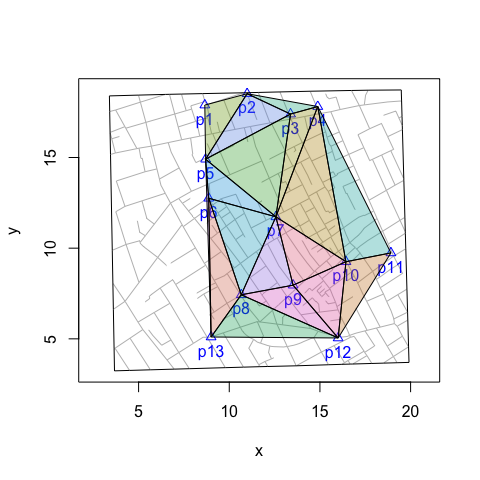
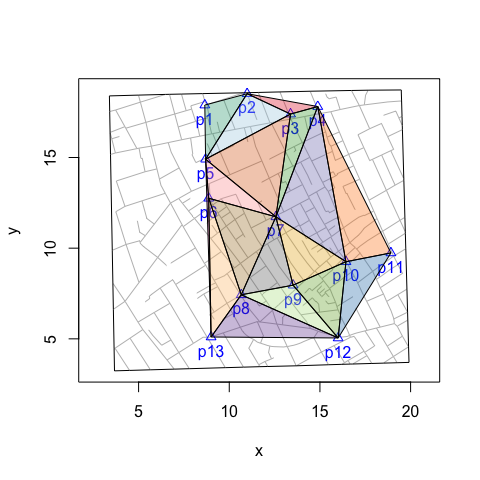
'colorspace' -> 'RColorBrewer'

Changed region(s): [[0.4062, 0.1875, 0.8125, 0.7188]]

diff --git a/docs/vignettes/tiles.polygons.md b/docs/vignettes/tiles.polygons.md
@@ -79,11 +79,11 @@ vapply(census, sum, integer(1L))
 # compute vertices of Voronoi tiles
 vertices <- deldirVertices(sites = cholera::pumps, rw.data = cholera::roads)
 
-# define colors, plot map, and color code tiles
+# define colors
 snow.colors <- grDevices::adjustcolor(snowColors(), alpha.f = 1/3)
-snowMap(add.cases = FALSE)
 
-# plot color coded tiles
+# plot map and color coded tiles
+snowMap(add.cases = FALSE)
 invisible(lapply(seq_along(vertices), function(i) {
   polygon(vertices[[i]], col = snow.colors[[i]])
 }))
@@ -98,12 +98,14 @@ invisible(lapply(seq_along(vertices), function(i) {
 vertices <- deldirVertices(sites = cholera::pumps,
   rw.data = cholera::roads, type = "triangles")
 
-# define colors, plot map, and color code triangles
-cspace <- sample(colorspace::qualitative_hcl(length(vertices)))
-colors <- grDevices::adjustcolor(cspace, alpha.f = 1/3)
-snowMap(add.cases = FALSE)
+# define colors
+colors.pair <- RColorBrewer::brewer.pal(10, "Paired")
+colors.dark <- RColorBrewer::brewer.pal(8, "Dark2")
+brewer.colors <- sample(c(colors.pair, colors.dark))
+colors <- grDevices::adjustcolor(brewer.colors, alpha.f = 1/3)
 
-# plot color coded triangles
+# plot map and color coded triangles
+snowMap(add.cases = FALSE)
 invisible(lapply(seq_along(vertices), function(i) {
   polygon(vertices[[i]], col = colors[[i]])
 }))
